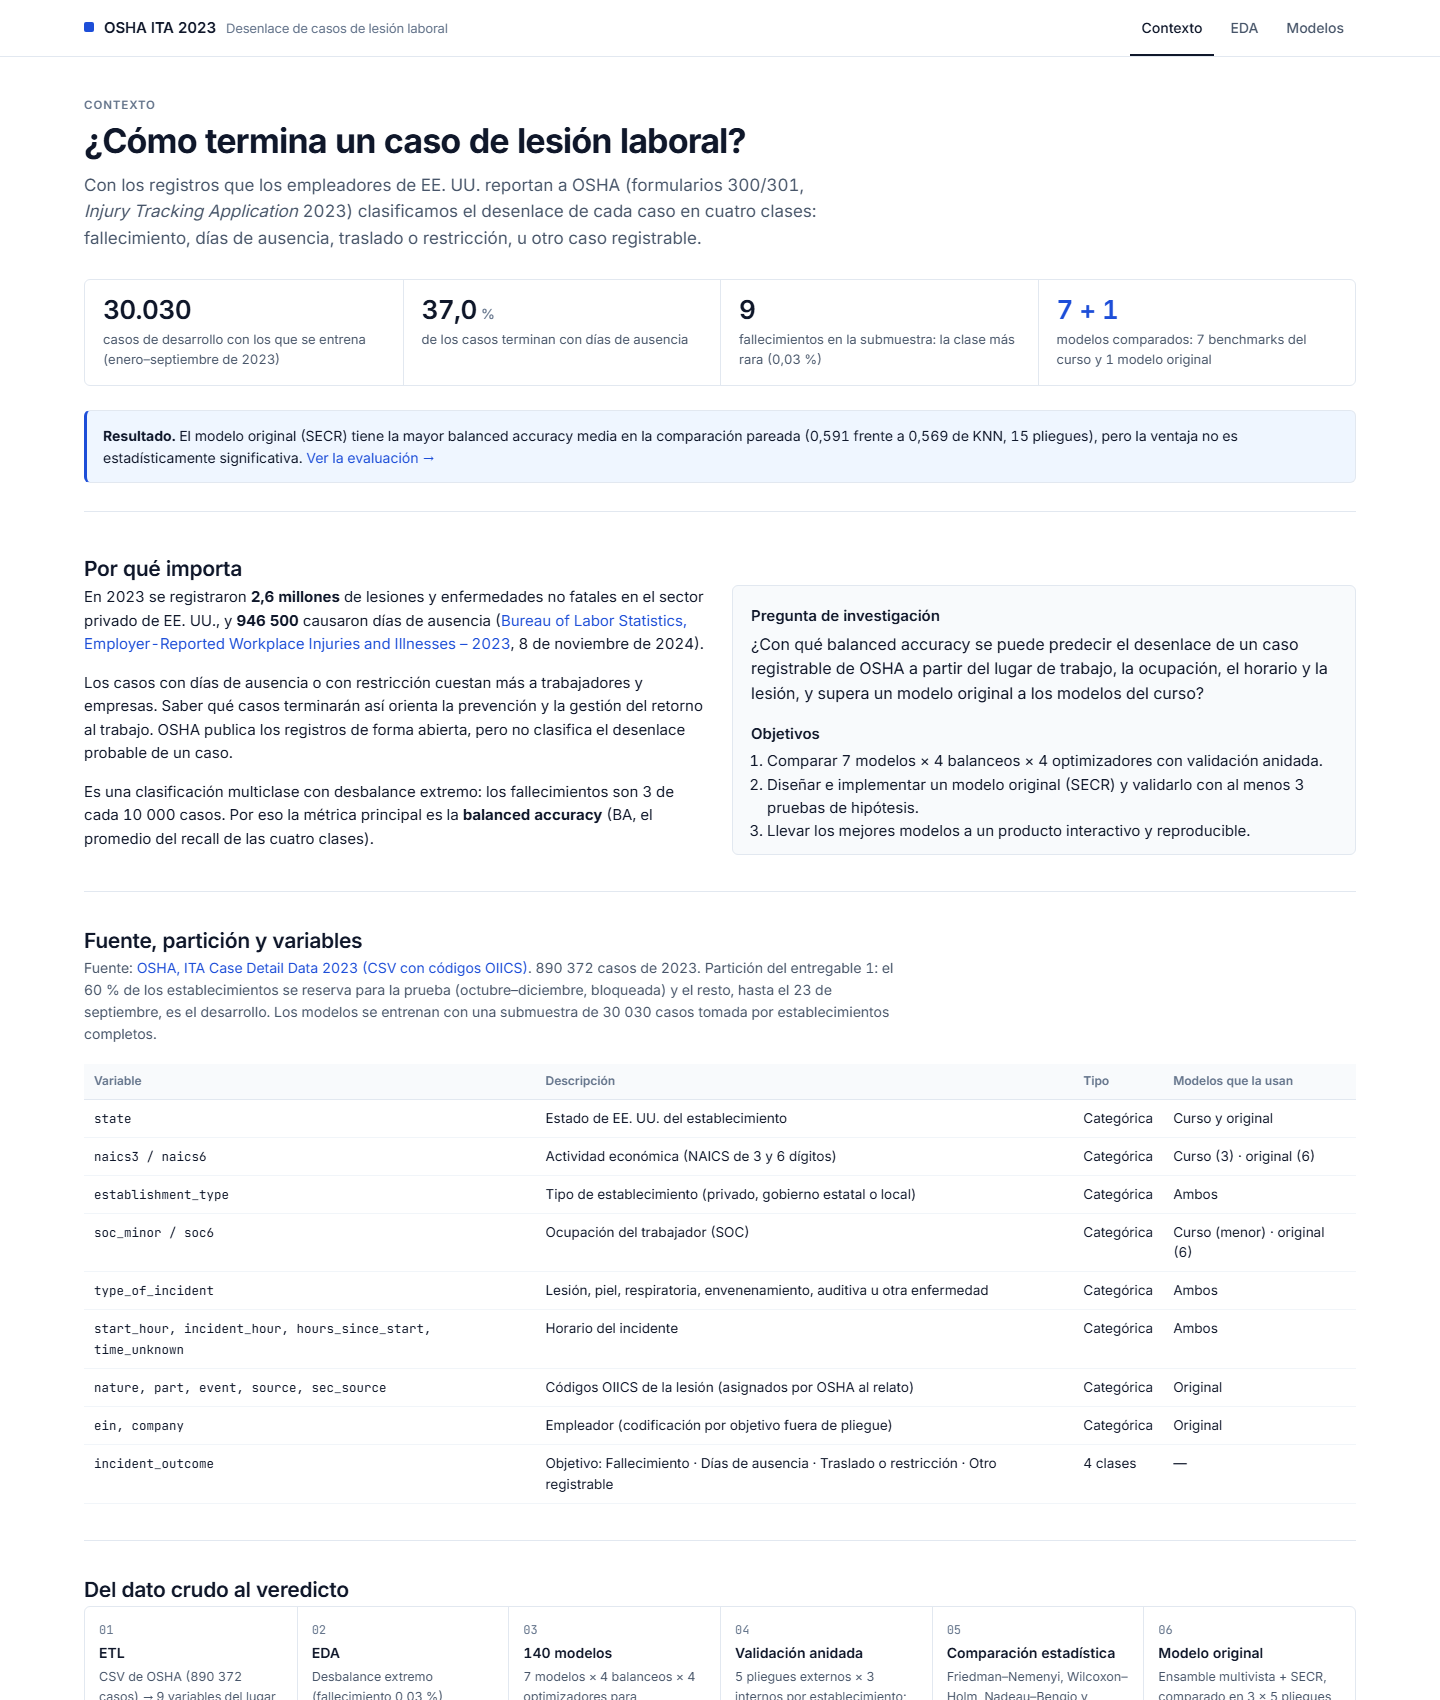
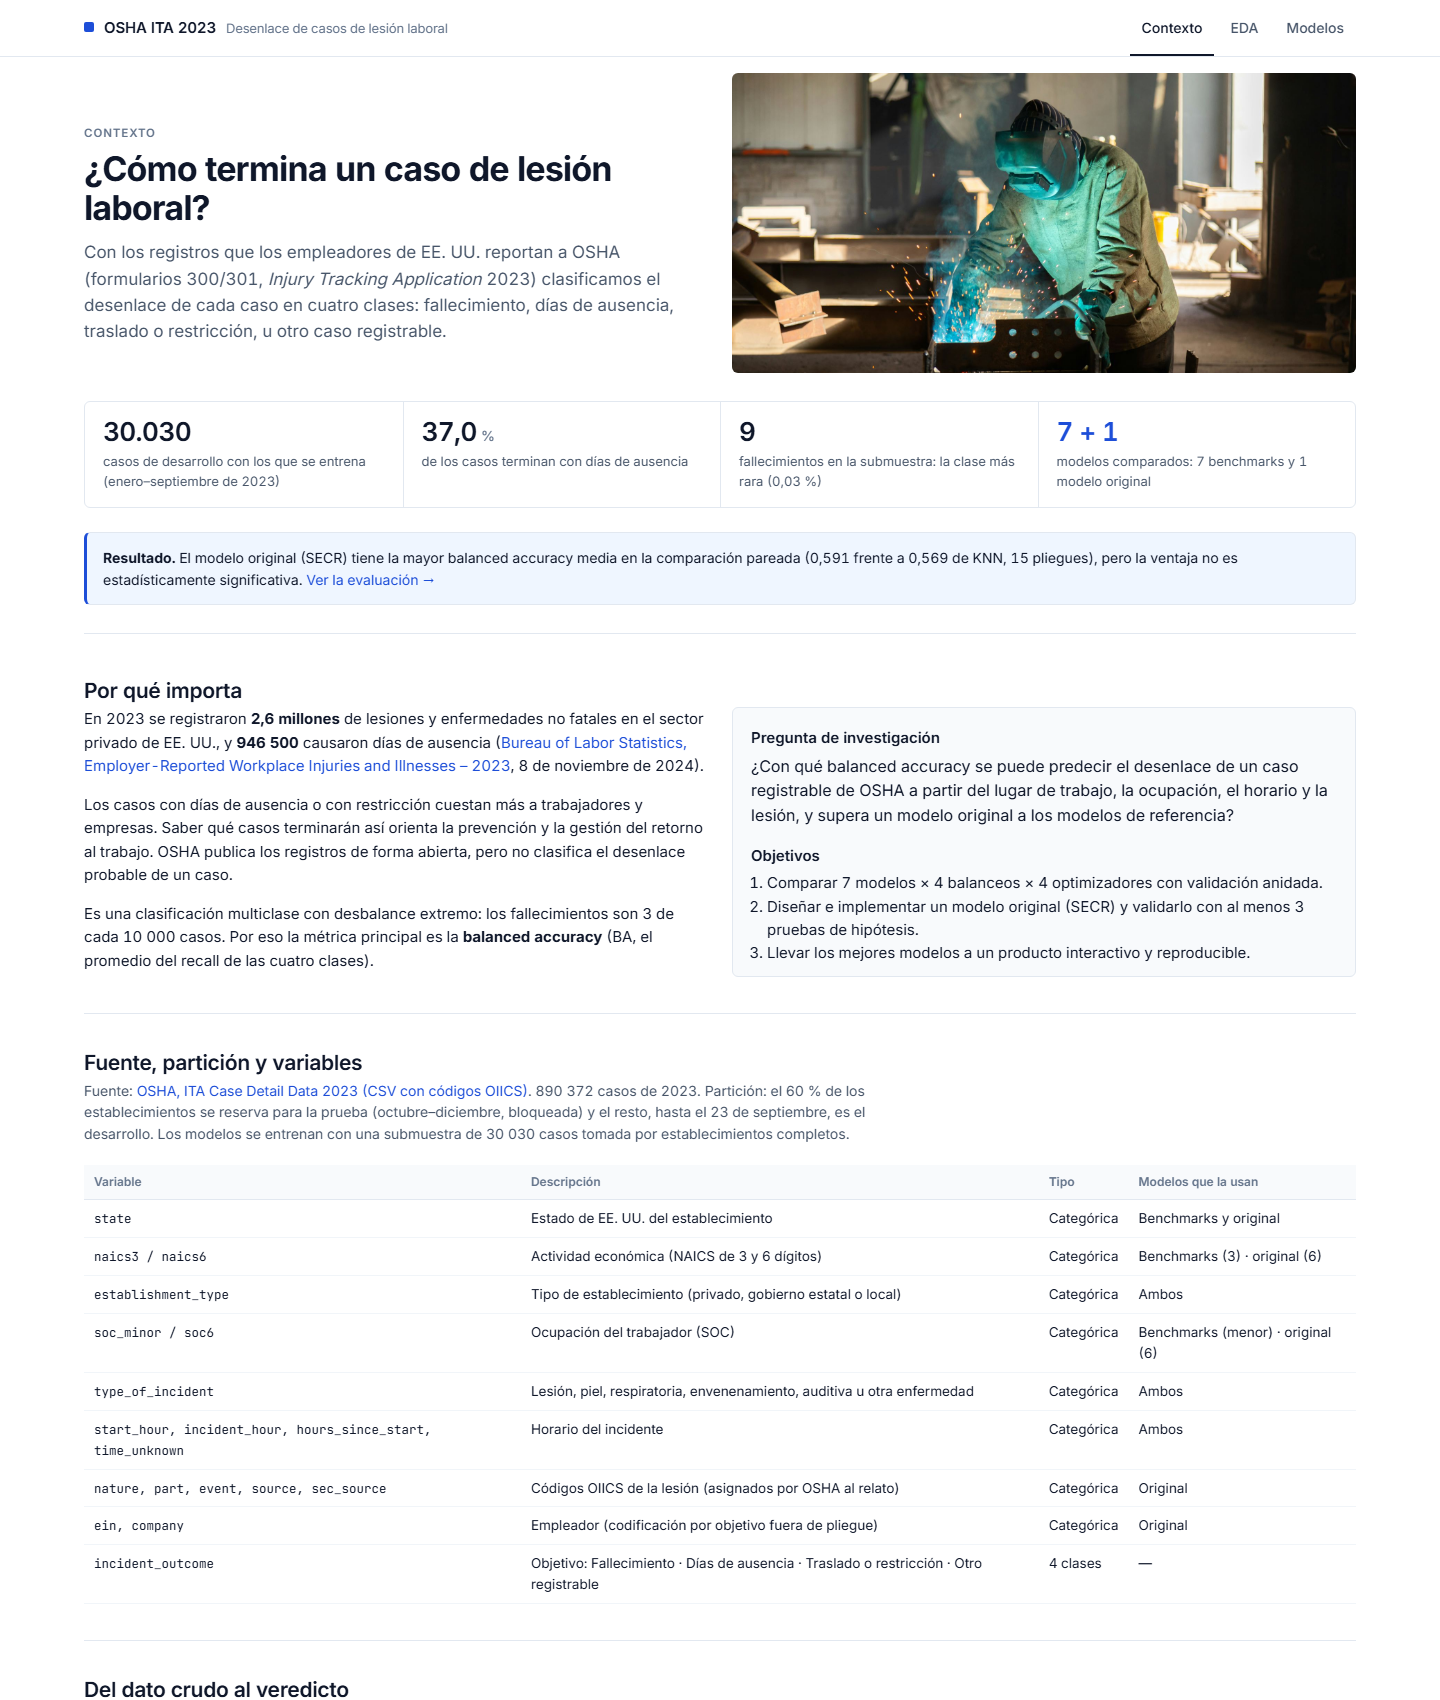
Dashboard: imagen de portada en Contexto (soldador en taller), con texto alternativo

diff --git a/dashboard_final/assets/style.css b/dashboard_final/assets/style.css
@@ -167,3 +167,7 @@ details.more > summary::-webkit-details-marker { display: none; }
 details.more > summary::before { content: '+'; display: inline-block; width: 18px; color: var(--ink-3); font-family: var(--mono); }
 details.more[open] > summary::before { content: '−'; }
 details.more > summary:hover { color: var(--ink); }
+
+/* ---------- imagen de portada (Contexto) ---------- */
+.hero-img { width: 100%; height: 300px; object-fit: cover; object-position: 50% 40%; border-radius: var(--radius); display: block; }
+@media (max-width: 992px) { .hero-img { height: 200px; } }

diff --git a/dashboard_final/pages/contexto.py b/dashboard_final/pages/contexto.py
@@ -70,11 +70,19 @@ if orig and knn:
 
 layout = html.Div([
     html.Div([
-        html.Div('Contexto', className='eyebrow'),
-        html.H1('¿Cómo termina un caso de lesión laboral?', className='page-title'),
-        html.P(['Con los registros que los empleadores de EE. UU. reportan a OSHA (formularios 300/301, ',
-                html.Em('Injury Tracking Application'), ' 2023) clasificamos el desenlace de cada caso en cuatro clases: '
-                'fallecimiento, días de ausencia, traslado o restricción, u otro caso registrable.'], className='page-lead'),
+        dbc.Row([
+            dbc.Col([
+                html.Div('Contexto', className='eyebrow'),
+                html.H1('¿Cómo termina un caso de lesión laboral?', className='page-title'),
+                html.P(['Con los registros que los empleadores de EE. UU. reportan a OSHA (formularios 300/301, ',
+                        html.Em('Injury Tracking Application'), ' 2023) clasificamos el desenlace de cada caso en cuatro '
+                        'clases: fallecimiento, días de ausencia, traslado o restricción, u otro caso registrable.'],
+                       className='page-lead'),
+            ], lg=6, className='align-self-center'),
+            dbc.Col(html.Img(src=dash.get_asset_url('hero.jpg'), className='hero-img',
+                             alt='Soldador trabajando sobre una viga de acero en un taller, con chispas y careta protectora'),
+                    lg=6, className='mt-4 mt-lg-0'),
+        ], className='g-4'),
         html.Div([
             stat(f'{len(d):,}'.replace(',', '.'), 'casos de desarrollo con los que se entrena (enero–septiembre de 2023)'),
             stat(num(counts['Días de ausencia'] / len(d) * 100), 'de los casos terminan con días de ausencia', unit='%'),
